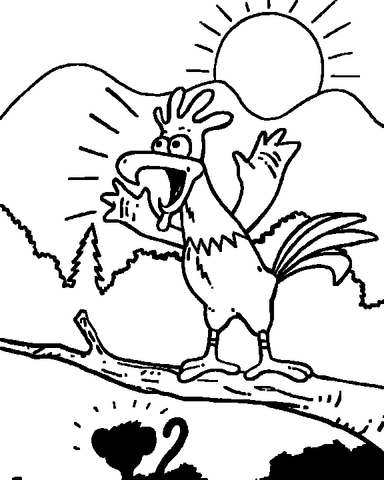
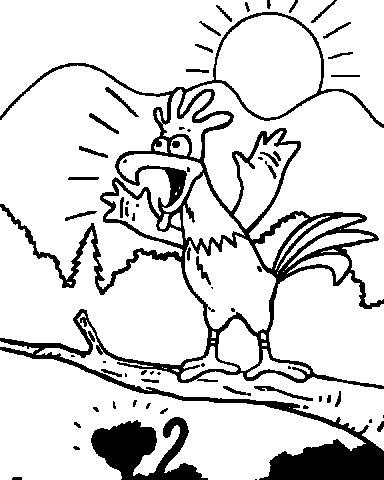
resolution conversion complete

diff --git a/source/barulandia.cpp b/source/barulandia.cpp
@@ -59,7 +59,8 @@ int main(int argc, char **argv) {
   dbglogger_printf("SDL version %d.%d.%d\n", compiled.major, compiled.minor,
                    compiled.patch);
 
-  if (SDL_Init(SDL_INIT_VIDEO | SDL_INIT_JOYSTICK | SDL_INIT_AUDIO) < 0) {
+  if (SDL_Init(SDL_INIT_VIDEO | SDL_INIT_JOYSTICK | SDL_INIT_AUDIO |
+               SDL_INIT_TIMER) < 0) {
     dbglogger_printf("SDL_Init: %s", SDL_GetError());
     return -1;
   }
@@ -77,7 +78,7 @@ int main(int argc, char **argv) {
     return -1;
   }
   // Brady Bunch Remastered
-  font = TTF_OpenFont(DATA_PATH "BRADBUNR.TTF", 48);
+  font = TTF_OpenFont(DATA_PATH "BRADBUNR.TTF", 32);
   if (!font) {
     dbglogger_printf("TTF_OpenFont: %s\n", TTF_GetError());
     return -1;
@@ -106,7 +107,7 @@ int main(int argc, char **argv) {
 
   // init screen
   screen = SDL_SetVideoMode(WIDTH, HEIGHT, 0,
-                            SDL_SWSURFACE | SDL_DOUBLEBUF | SDL_FULLSCREEN);
+                            SDL_SWSURFACE | SDL_DOUBLEBUF /*| SDL_FULLSCREEN*/);
   if (screen == NULL) {
     dbglogger_printf("SDL_SetVideoMode: %s", SDL_GetError());
     return -1;
@@ -125,19 +126,19 @@ int main(int argc, char **argv) {
   if ((cursor.x > x1) && (cursor.y > y1) && (cursor.x < x2) && (cursor.y < y2))
 
 #define CLICK_AREA                                                             \
-  CURSOR_AREA(172, 17, 322, 147) { draw_new--; } /*prev draw*/                 \
-  CURSOR_AREA(955, 17, 1110, 147) {              /*next draw*/                 \
+  CURSOR_AREA(23, 32, 86, 86) { draw_new--; } /*prev draw*/                    \
+  CURSOR_AREA(536, 37, 596, 87) {             /*next draw*/                    \
     draw_new++;                                                                \
   }                                                                            \
-  CURSOR_AREA(172, 565, 322, 707) { /*refresh draw*/                           \
+  CURSOR_AREA(22, 138, 81, 188) { /*refresh draw*/                             \
     effect_play(SOUND_TRASH);                                                  \
     draw_refresh = true;                                                       \
   }                                                                            \
-  CURSOR_AREA(172, 408, 322, 538) { /*eraser*/                                 \
+  CURSOR_AREA(24, 227, 80, 278) { /*eraser*/                                   \
     color_new = SDL_MapRGBA(field->format, 255, 255, 255, SDL_ALPHA_OPAQUE);   \
   }                                                                            \
-  CURSOR_AREA(955, 408, 1110, 538) {} /*paint tool*/                           \
-  CURSOR_AREA(1140, 15, 1270, 705) {  /*color picker*/                         \
+  CURSOR_AREA(24, 321, 84, 370) {}  /*paint tool*/                             \
+  CURSOR_AREA(534, 116, 621, 458) { /*color picker*/                           \
     SDL_LockSurface(field);                                                    \
     Uint32 c = GetPixel32_nolock(field, cursor.x, cursor.y);                   \
     SDL_UnlockSurface(field);                                                  \
@@ -145,7 +146,7 @@ int main(int argc, char **argv) {
       color_new = c;                                                           \
     }                                                                          \
   }                                                                            \
-  CURSOR_AREA(353, 1, 927, 719) { /*paint*/                                    \
+  CURSOR_AREA(129, 1, 511, 479) { /*paint*/                                    \
     floodfill(field, cursor.x, cursor.y, color_current);                       \
     redraw = true;                                                             \
   }
@@ -923,7 +924,7 @@ int main(int argc, char **argv) {
       // change current color
       if (color_current != color_new) {
         color_current = color_new;
-        floodfill(field, 1000, 650, color_current);
+        floodfill(field, 50, 450, color_current);
         redraw = true;
       }
 

diff --git a/source/screen.cpp b/source/screen.cpp
@@ -155,8 +155,8 @@ SDL_Surface *create_help_screen(TTF_Font *font) {
   SDL_BlitSurface(t1, NULL, help_screen, &dstrect);
 
 #define ROW_SPACING (MARGIN_Y * 0.45)
-#define COLUMN_SPACING (BUTTONS_XY * 7.6)
-#define COLUMN_SPACING2 (BUTTONS_XY * 6)
+#define COLUMN_SPACING (BUTTONS_XY * 4.8)
+#define COLUMN_SPACING2 (BUTTONS_XY * 3.2)
 
   // move
   srcrect.x = L_X * BUTTONS_XY;
@@ -235,13 +235,14 @@ SDL_Surface *create_help_screen(TTF_Font *font) {
   return help_screen;
 }
 
-SDL_Surface *create_credit_screen(TTF_Font *font) {
+SDL_Surface *create_credit_screen(TTF_Font *f) {
   SDL_Surface *credit_screen = load_surface(DATA_PATH "FUNDO" GRAPH_EXT);
   SDL_Surface *buttons = load_surface(DATA_PATH "BUTTONS" GRAPH_EXT);
 
   SDL_Color fg = {255, 0, 0, SDL_ALPHA_OPAQUE};
+  TTF_Font *font = TTF_OpenFont(DATA_PATH "BRADBUNR.TTF", 24);
 
-  SDL_Surface *t1 = TTF_RenderUTF8_Blended(font, "CRÉDITOS", fg);
+  SDL_Surface *t1 = TTF_RenderUTF8_Blended(f, "CRÉDITOS", fg);
   SDL_Surface *t2 = TTF_RenderUTF8_Blended(
       font, "BARULÂNDIA FABIANA C RIECHEL GONZÁLEZ KLEIN", fg);
   SDL_Surface *t3 =
@@ -250,7 +251,8 @@ SDL_Surface *create_credit_screen(TTF_Font *font) {
       TTF_RenderUTF8_Blended(font, "PROGRAMAÇÃO JULIÁN M GONZÁLEZ KLEIN", fg);
   SDL_Surface *t5 = TTF_RenderUTF8_Blended(
       font, "BETATEST MARCELA RIECHEL GONZÁLEZ KLEIN", fg);
-  SDL_Surface *t9 = TTF_RenderUTF8_Blended(font, "VOLTAR", fg);
+  SDL_Surface *t9 = TTF_RenderUTF8_Blended(f, "VOLTAR", fg);
+  TTF_CloseFont(font);
 
   fill_rounded_box_b(
       credit_screen, MARGIN_X, MARGIN_Y, credit_screen->w - (MARGIN_X * 2),

diff --git a/include/barulandia.h b/include/barulandia.h
@@ -9,8 +9,8 @@
 
 #define MAX_STRING 2048
 
-#define DRAW_W 576
-#define DRAW_H 720
+#define DRAW_W 384
+#define DRAW_H 480
 
 #pragma GCC diagnostic ignored "-Wmaybe-uninitialized"
 
@@ -44,8 +44,8 @@
 #define DATA_PATH "../release/USRDIR/"
 #endif
 
-#define WIDTH 1280
-#define HEIGHT 720
+#define WIDTH 640
+#define HEIGHT 480
 
 #include "debug.h"
 #include "floodfill.h"

diff --git a/source/save.cpp b/source/save.cpp
@@ -14,10 +14,10 @@ int do_save_png(void *d) {
   dbglogger_printf("THREAD SAVING: %s\n", buf);
 
   SDL_Rect content;
-  content.x = (WIDTH - 576) / 2;
+  content.x = (WIDTH - DRAW_W) / 2;
   content.y = 0;
-  content.w = 576;
-  content.h = 720;
+  content.w = DRAW_W;
+  content.h = DRAW_H;
 
   // avoid lots of casts...
   SDL_Surface *in = (SDL_Surface *)d;

diff --git a/include/screen.h b/include/screen.h
@@ -2,7 +2,7 @@
 
 #include "barulandia.h"
 
-#define BUTTONS_XY 64
+#define BUTTONS_XY 42
 
 // spritesheet positions (*64)
 #define CROSS_X 0
